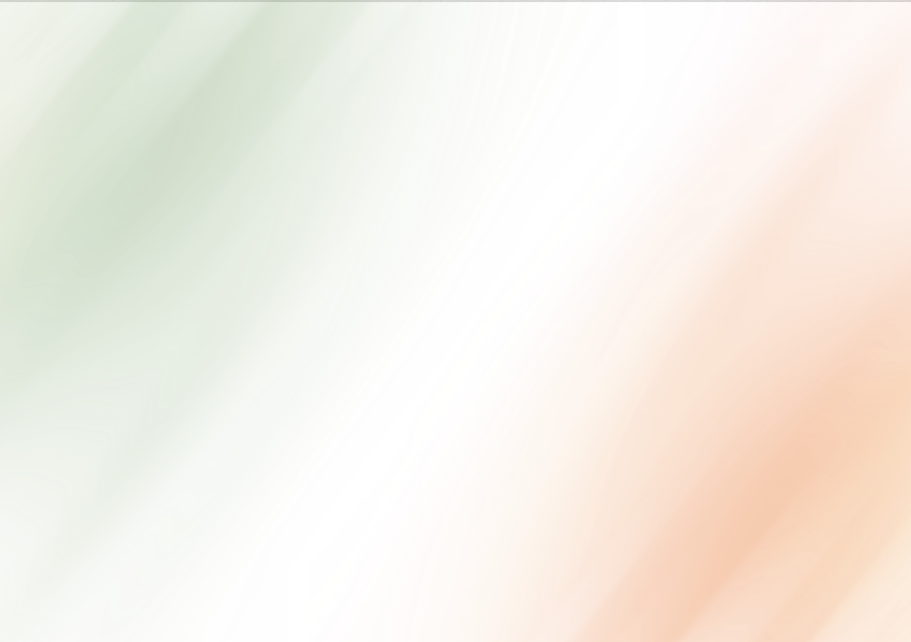
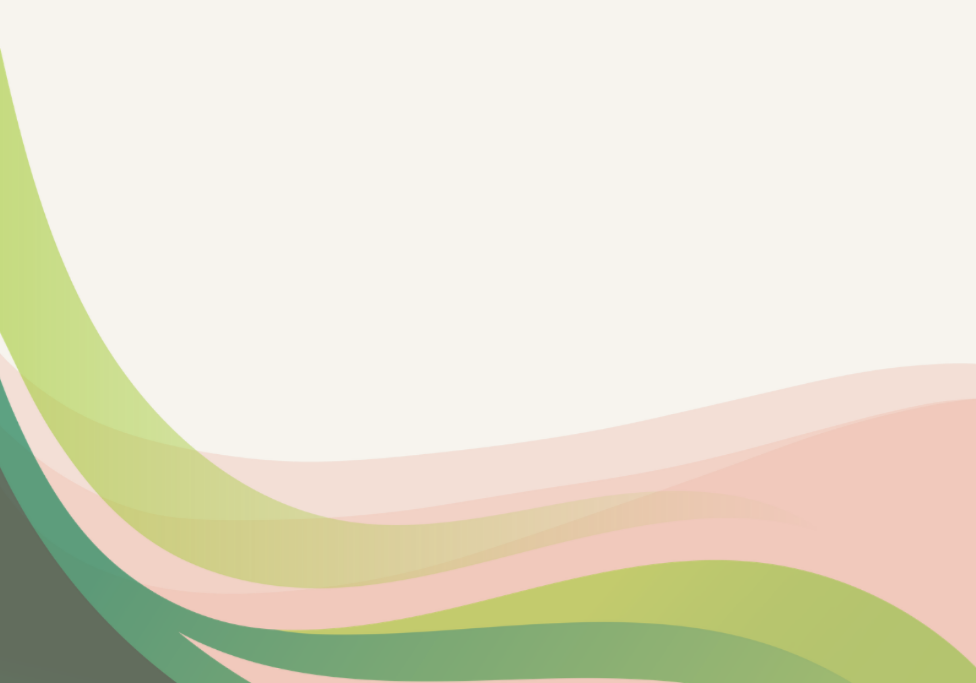
Tweaked some page colors

diff --git a/the_basics/lib/auth/register.dart b/the_basics/lib/auth/register.dart
@@ -186,7 +186,7 @@ class _RegisterPageState extends State<RegisterPage> {
           width: 800,
           padding: const EdgeInsets.all(40),
           decoration: BoxDecoration(
-            color: AppThemes.authContainer,
+            color: AppThemes.lightcreme,
             borderRadius: BorderRadius.circular(8),
             boxShadow: [
               BoxShadow(
@@ -212,7 +212,7 @@ class _RegisterPageState extends State<RegisterPage> {
                         const Text(
                           'Personal Information',
                           style: TextStyle(
-                            color: AppThemes.searchText,
+                            color: AppThemes.orange,
                             fontSize: 16,
                             fontWeight: FontWeight.w600,
                           ),
@@ -221,7 +221,7 @@ class _RegisterPageState extends State<RegisterPage> {
                         
                         TextField(
                           controller: _firstNameController,
-                          style: TextStyle(color: AppThemes.authInput),
+                          style: TextStyle(color: AppThemes.brown),
                           decoration: InputDecoration(
                             labelText: 'First Name',
                             labelStyle: TextStyle(color: AppThemes.authFieldName),
@@ -233,7 +233,7 @@ class _RegisterPageState extends State<RegisterPage> {
                         
                         TextField(
                           controller: _lastNameController,
-                          style: TextStyle(color: AppThemes.authInput),
+                          style: TextStyle(color: AppThemes.brown),
                           decoration: InputDecoration(
                             labelText: 'Last Name',
                             labelStyle: TextStyle(color: AppThemes.authFieldName),
@@ -245,7 +245,7 @@ class _RegisterPageState extends State<RegisterPage> {
                         
                         TextField(
                           controller: _dateOfBirthController,
-                          style: TextStyle(color: AppThemes.authInput),
+                          style: TextStyle(color: AppThemes.brown),
                           readOnly: true,
                           decoration: InputDecoration(
                             labelText: 'Date of Birth',
@@ -286,7 +286,7 @@ class _RegisterPageState extends State<RegisterPage> {
                         
                         TextField(
                           controller: _contactNumberController,
-                          style: TextStyle(color: AppThemes.authInput),
+                          style: TextStyle(color: AppThemes.brown),
                           decoration: InputDecoration(
                             labelText: 'Contact Number',
                             labelStyle: TextStyle(color: AppThemes.authFieldName),
@@ -308,7 +308,7 @@ class _RegisterPageState extends State<RegisterPage> {
                         const Text(
                           'Log In Information',
                           style: TextStyle(
-                            color: AppThemes.searchText,
+                            color: AppThemes.orange,
                             fontSize: 16,
                             fontWeight: FontWeight.w600,
                           ),
@@ -317,7 +317,7 @@ class _RegisterPageState extends State<RegisterPage> {
                         
                         TextField(
                           controller: _usernameController,
-                          style: TextStyle(color: AppThemes.authInput),
+                          style: TextStyle(color: AppThemes.brown),
                           decoration: InputDecoration(
                             labelText: 'Username',
                             labelStyle: TextStyle(color: AppThemes.authFieldName),
@@ -329,7 +329,7 @@ class _RegisterPageState extends State<RegisterPage> {
 
                         TextField(
                           controller: _emailController,
-                          style: TextStyle(color: AppThemes.authInput),
+                          style: TextStyle(color: AppThemes.brown),
                           decoration: InputDecoration(
                             labelText: 'Email Address',
                             labelStyle: TextStyle(color: AppThemes.authFieldName),
@@ -341,7 +341,7 @@ class _RegisterPageState extends State<RegisterPage> {
                         
                         TextField(
                           controller: _passwordController,
-                          style: TextStyle(color: AppThemes.authInput),
+                          style: TextStyle(color: AppThemes.brown),
                           obscureText: true,
                           decoration: InputDecoration(
                             labelText: 'Password',
@@ -361,7 +361,7 @@ class _RegisterPageState extends State<RegisterPage> {
                               ? TextField(
                                   key: const ValueKey('confirm_field'),
                                   controller: _confirmPasswordController,
-                                  style: TextStyle(color: AppThemes.authInput),
+                                  style: TextStyle(color: AppThemes.brown),
                                   obscureText: true,
                                   decoration: const InputDecoration(
                                     labelText: 'Confirm Password',
@@ -401,7 +401,7 @@ class _RegisterPageState extends State<RegisterPage> {
 
                   const Text(
                     'Remember me?',
-                    style: TextStyle(color: AppThemes.authOptions),
+                    style: TextStyle(color: AppThemes.brown),
                   ),
                 ],
               ),

diff --git a/the_basics/lib/auth/login.dart b/the_basics/lib/auth/login.dart
@@ -108,7 +108,7 @@ class _LoginPageState extends State<LoginPage> {
                 width: 400,
                 padding: const EdgeInsets.all(40),
                 decoration: BoxDecoration(
-                  color: AppThemes.authContainer,
+                  color: AppThemes.lightcreme,
                   borderRadius: BorderRadius.circular(8),
                   boxShadow: [
                     BoxShadow(
@@ -125,7 +125,7 @@ class _LoginPageState extends State<LoginPage> {
                     // Username or Email Address
                     TextField(
                       controller: _emailController,
-                      style: TextStyle(color: AppThemes.authInput),
+                      style: TextStyle(color: AppThemes.brown),
                       decoration: InputDecoration(
                           labelText: 'Username or Email Address',
                           labelStyle: TextStyle(color: AppThemes.authFieldName),
@@ -139,7 +139,7 @@ class _LoginPageState extends State<LoginPage> {
                       controller: _passwordController,
                       obscureText: true,
                         style: const TextStyle(
-                        color: AppThemes.authInput
+                        color: AppThemes.brown
                       ),
                       decoration: InputDecoration(
                           labelText: 'Password',
@@ -164,7 +164,7 @@ class _LoginPageState extends State<LoginPage> {
                         child: const Text(
                           'Forgot password?',
                           style: TextStyle(
-                            color: AppThemes.authOptions,
+                            color: AppThemes.brown,
                             fontSize: 14,
                           ),
                         ),
@@ -190,7 +190,7 @@ class _LoginPageState extends State<LoginPage> {
 
                         const Text(
                           'Remember me?',
-                          style: TextStyle(color: AppThemes.authOptions),
+                          style: TextStyle(color: AppThemes.brown),
                         ),
                       ],
                     ),

diff --git a/the_basics/lib/core/utils/notification_view.dart b/the_basics/lib/core/utils/notification_view.dart
@@ -1,5 +1,6 @@
 import 'package:flutter/material.dart';
 import 'package:url_launcher/url_launcher.dart';
+import 'package:the_basics/core/utils/themes.dart';
 
 class NotificationViewPage extends StatelessWidget {
   const NotificationViewPage({super.key});
@@ -18,15 +19,15 @@ class NotificationViewPage extends StatelessWidget {
     final (Color bgColor, Color accentColor, IconData icon) = _getNotificationStyle(notifType);
 
     return Scaffold(
-      backgroundColor: const Color(0xFFEFEFEF),
+      backgroundColor: AppThemes.lightcreme,
       appBar: AppBar(
         title: const Text(
           "Notification",
-          style: TextStyle(color: Colors.black, fontSize: 26),
+          style: TextStyle(color: AppThemes.lightcreme, fontSize: 26),
         ),
-        backgroundColor: Colors.white,
+        backgroundColor: AppThemes.darkgreen,
         elevation: 1,
-        iconTheme: const IconThemeData(color: Colors.black),
+        iconTheme: const IconThemeData(color: AppThemes.lightcreme),
       ),
       body: Center(
         child: SingleChildScrollView(

diff --git a/the_basics/lib/core/utils/notifications_list.dart b/the_basics/lib/core/utils/notifications_list.dart
@@ -1,5 +1,6 @@
 import 'package:flutter/material.dart';
 import 'package:supabase_flutter/supabase_flutter.dart';
+import 'package:the_basics/core/utils/themes.dart';
 
 class NotificationsListPage extends StatefulWidget {
   const NotificationsListPage({super.key});
@@ -418,12 +419,12 @@ class _NotificationsListPageState extends State<NotificationsListPage> {
   @override
   Widget build(BuildContext context) {
     return Scaffold(
-      backgroundColor: const Color(0xFFEFEFEF),
+      backgroundColor: AppThemes.lightcreme,
       appBar: AppBar(
-        backgroundColor: Colors.white,
+        backgroundColor: AppThemes.darkgreen,
         elevation: 1,
-        title: const Text("Notifications", style: TextStyle(color: Colors.black, fontSize: 26)),
-        iconTheme: const IconThemeData(color: Colors.black),
+        title: const Text("Notifications", style: TextStyle(color: AppThemes.creme, fontSize: 26)),
+        iconTheme: const IconThemeData(color: AppThemes.creme),
       ),
       body: Padding(
         padding: const EdgeInsets.all(30),

diff --git a/README.md b/README.md
@@ -17,21 +17,15 @@
     
     __Member__  
     `email: namh.b1l6@gmail.com`  
-    `password: Asdf1234*`
+    `password: Asdf1234`
 
     __Encoder__  
-    `email: namh.akashax@gmail.com`  
+    `email: encoder`  
     `password: password`
 
     __Admin__  
-    `email: wesner.almin.iii@gmail.com`  
+    `email: admin`  
     `password: password`  
 
 In case you come across any problems, run the following command:
 `flutter doctor`
-
-
-_Note: As of now, the Back End is still working on account creation. You can still access the other role's static pages through the buttons on the top nav bar though._
-- Resources: Admin dashboard
-- Contact Us: Encoder dashboard
-- Help: Member dashboard
